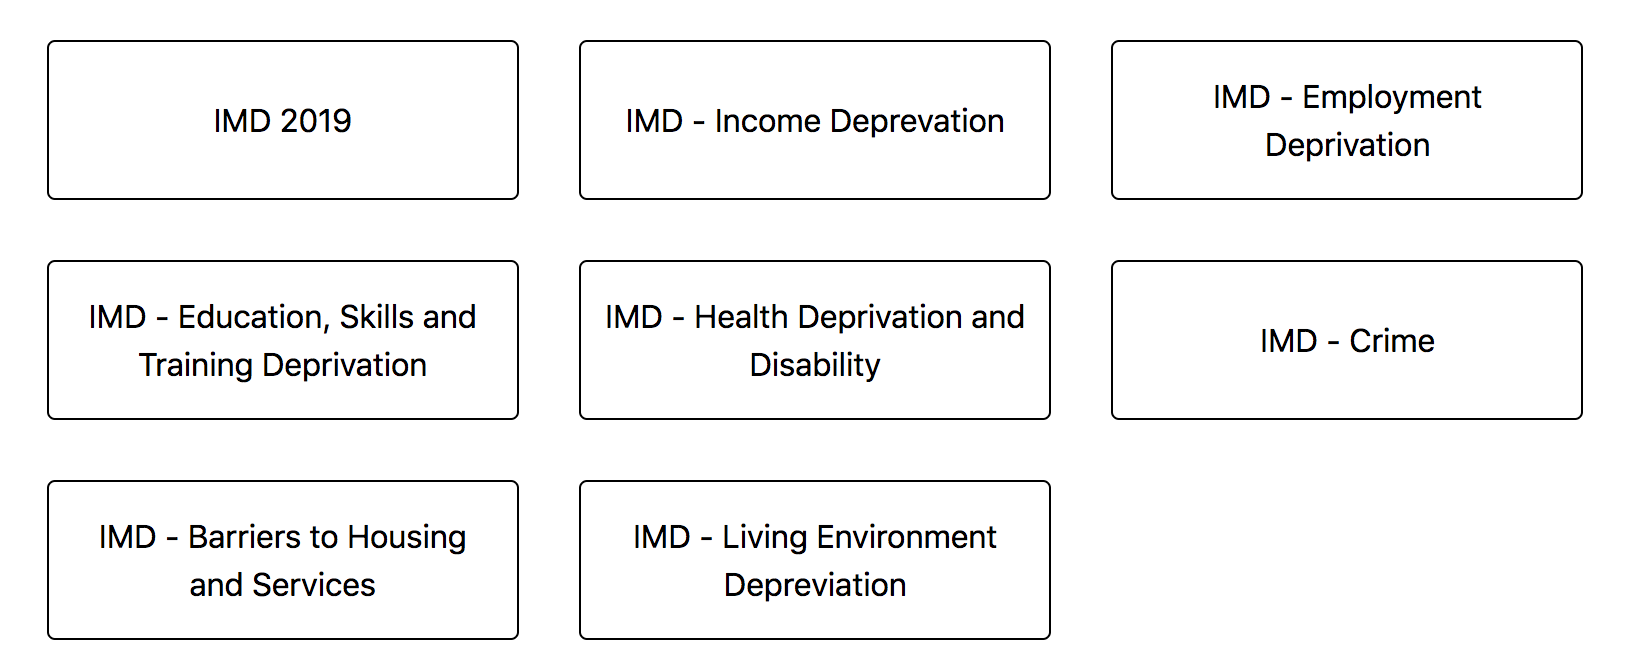
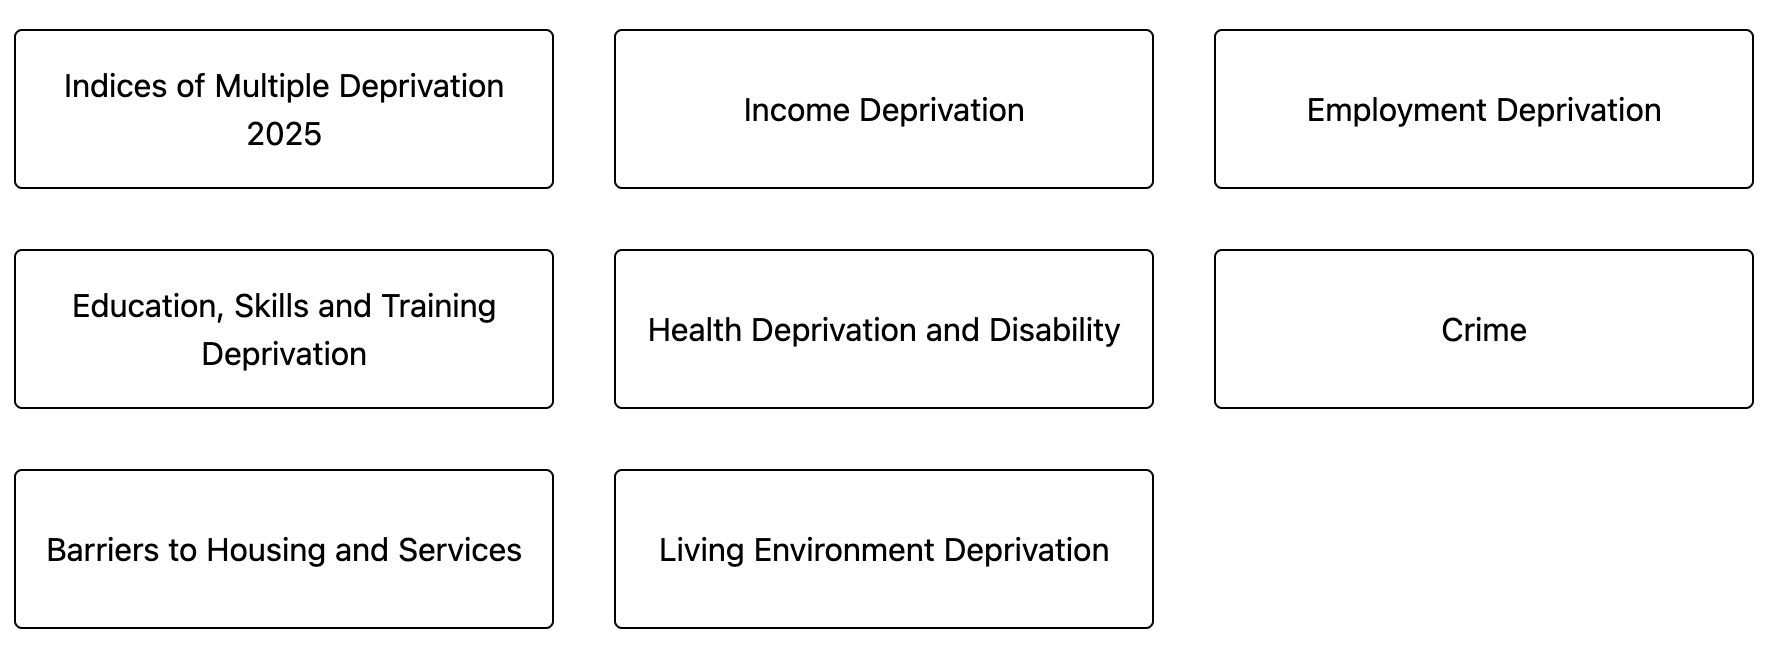
making ui and style changes based on conversation w/ superhighways

diff --git a/analyse/index.html b/analyse/index.html
@@ -59,7 +59,7 @@
             <div id="step2" class="row">
                 <div class="offset-md-1 col-md-10">
                     <p class="instruction-header">2. Select the view to start with:</p>
-                    <p class="subdomain-warning">Please note, the IMD subdomains are not yet available as overlays on the map, but the data summary and count by decile information is available for each sub domain in the left hand panel, and they are all included in the data download.</p> 
+                    <p class="subdomain-warning">* Please note, the IMD subdomains are not yet available as overlays on the map, but the data summary and count by decile information is available for each sub domain in the left hand panel, and they are all included in the data download.</p> 
                     <div class="row">
                         <div class="col-md-3">
                             <h3 id="dataset-title"></h3>
@@ -147,12 +147,12 @@
                 </div>
                 <div class="col-md-8">
                     <div class="row data-navigation">
-                        <p class="subdomain-warning">Please note, the IMD subdomains are not yet available as overlays on the map, but the data summary and count by decile information is available for each sub domain in the left hand panel, and they are all included in the data download.</p> 
+                        <p class="subdomain-warning">* Please note, the IMD subdomains are not yet available as overlays on the map, but the data summary and count by decile information is available for each sub domain in the left hand panel, and they are all included in the data download.</p> 
                         <div class="col-md-12">
                             <button class="btn btn-app btn-data btn-active" data-id="IMD">IMD 2025<br/><wbr></button>
                             <button class="btn btn-app-subdomain btn-data" data-id="Income">Income<br/><wbr></button>
                             <button class="btn btn-app-subdomain btn-data" data-id="Employment">Employment<br/><wbr></button>
-                            <button class="btn btn-app-subdomain btn-data" data-id="Education">Education +<br/ ><wbr></button>
+                            <button class="btn btn-app-subdomain btn-data" data-id="Education">Education +<br/><wbr></button>
                             <button class="btn btn-app-subdomain btn-data" data-id="Health">Health and<br/>Disability</button>
                             <button class="btn btn-app-subdomain btn-data" data-id="Crime">Crime<br/><wbr></button>
                             <button class="btn btn-app-subdomain btn-data" data-id="Housing">Housing and<br/>Services</button>
@@ -168,9 +168,9 @@
             </div>
             <div id="footer" class="row">
                 <div class="col-md-12 text-center">
-                    <p>An initiative of Catalyst in collaboration with Hetco Design, part of the Catalyst and The National Lottery Community Fund COVID-19 Digital Response</p>
-                    <p>This is an open source project. See the <a class="link-highlight" href="">github repository</a> for more information.</p>
-                    <img class="footer-logo" height="30px" src="../images/lottery.png" /><img class="footer-logo" height="20px" src="../images/cast.png" /><img class="footer-logo" height="25px" src="../images/catalyst.png" /><img class="footer-logo" height="30px" src="../images/data-collective.png" /><img class="footer-logo" height="20px" src="../images/DataKindUK.png" /><img class="footer-logo" height="50px" src="../images/hetco.png" />
+                    <p>An initiative of Catalyst in collaboration with Hetco Design, part of the Catalyst and The National Lottery Community Fund COVID-19 Digital Response. 2025 update funded through Datawise London.</p>
+                    <p>This is an open source project. See the <a class="link-highlight" href="https://github.com/DataKind-UK/community-lens-2025">github repository</a> for more information.</p>
+                    <img class="footer-logo" height="30px" src="../images/lottery.png" /><img class="footer-logo" height="20px" src="../images/cast.png" /><img class="footer-logo" height="25px" src="../images/catalyst.png" /><img class="footer-logo" height="30px" src="../images/data-collective.png" /><img class="footer-logo" height="20px" src="../images/DataKindUK.png" /><img class="footer-logo" height="50px" src="../images/hetco.png" /><img class="footer-logo" height="42px" src="../images/superhighways-transparent-logo.png" />        
                 </div>
             </div>
         </div>

diff --git a/index.html b/index.html
@@ -48,7 +48,7 @@
                     <p>The Community Lens tool allows you to plot your postcodes over the Indices of Multiple Deprivation (IMD), the official measure of deprivation in England, comprised of seven distinct domains of deprivation, Income Deprivation, Employment Deprivation, Education, Skills and Training Deprivation, Health Deprivation and Disability, Crime, Barriers to Housing and Services, Living Environment Deprivation.</p>
                     <p class="instruction-header">Why do we have a 2025 and 2019 version of Community Lens?</p>
                     <p>The Indices of Multiple Deprivation (IMD) are released every 6 years. This version of the Community Lens tool uses the IMD data released in 2025. If you would like to compare to the 2019 data, you can access the 2019 version of the Community Lens here: </p>
-                    <a class="link-highlight" href="https://datakind-uk.github.io/community-lens">Community Lens 2019</a>    
+                    <a class="link-highlight-landing-page" href="https://datakind-uk.github.io/community-lens">Community Lens 2019</a>    
                 </div>
             </div>
 
@@ -95,9 +95,9 @@
             </div>
             <div id="footer" class="row">
                 <div class="col-md-12 text-center">
-                    <p>An initiative of Catalyst in collaboration with Hetco Design, part of the Catalyst and The National Lottery Community Fund COVID-19 Digital Response</p>
-                    <p>This is an open source project. See the <a class="link-highlight" href="">github repository</a> for more information.</p>
-                    <img class="footer-logo" height="30px" src="images/lottery.png" /><img class="footer-logo" height="20px" src="images/cast.png" /><img class="footer-logo" height="25px" src="images/catalyst.png" /><img class="footer-logo" height="30px" src="images/data-collective.png" /><img class="footer-logo" height="20px" src="images/DataKindUK.png" /><img class="footer-logo" height="50px" src="images/hetco.png" />
+                    <p class="footer_text">An initiative of Catalyst in collaboration with Hetco Design, part of the Catalyst and The National Lottery Community Fund COVID-19 Digital Response. 2025 update funded through Datawise London.</p>
+                    <p class="footer_text">This is an open source project. See the <a class="link-highlight" href="https://github.com/DataKind-UK/community-lens-2025">github repository</a> for more information.</p>
+                    <img class="footer-logo" height="30px" src="images/lottery.png" /><img class="footer-logo" height="20px" src="images/cast.png" /><img class="footer-logo" height="25px" src="images/catalyst.png" /><img class="footer-logo" height="30px" src="images/data-collective.png" /><img class="footer-logo" height="20px" src="images/DataKindUK.png" /><img class="footer-logo" height="50px" src="images/hetco.png" /><img class="footer-logo" height="42px" src="images/superhighways-transparent-logo.png" />
                 </div>
             </div>
         </div>

diff --git a/about/index.html b/about/index.html
@@ -36,7 +36,7 @@
             </div>
             <div id = "about" class="row">          
                 <div class="col-md-4 offset-md-1">
-                    <p>Community Lens is a prototype tool created from a 5 week design sprint by Hetco Design, DataKind and CAST. The project was funded by the National Lottery.</p>
+                    <p>Community Lens is a prototype tool created from a 5 week design sprint by Hetco Design, DataKind and CAST. The project was funded by the National Lottery. 2025 update funded through Datawise London.</p>
                     <p>Do you want more features or data added to the tool? Please fill out the Request feature and data set form.</p>
                 </div>
                 <div class="offset-md-1 col-md-5">
@@ -45,10 +45,9 @@
             </div>
             <div id="footer" class="row">
                 <div class="col-md-12 text-center">
-                    <p>An initiative of Catalyst in collaboration with Hetco Design, part of the Catalyst and The National Lottery Community Fund COVID-19 Digital Response</p>
-                    <p>This is an open source project. See the <a class="link-highlight" href="">github repository</a> for more information.</p>
-                    <img class="footer-logo" height="30px" src="../images/lottery.png" /><img class="footer-logo" height="20px" src="../images/cast.png" /><img class="footer-logo" height="25px" src="../images/catalyst.png" /><img class="footer-logo" height="30px" src="../images/data-collective.png" /><img class="footer-logo" height="20px" src="../images/DataKindUK.png" /><img class="footer-logo" height="50px" src="../images/hetco.png" />
-                </div>
+                    <p>An initiative of Catalyst in collaboration with Hetco Design, part of the Catalyst and The National Lottery Community Fund COVID-19 Digital Response. 2025 update funded through Datawise London.</p>
+                    <p>This is an open source project. See the <a class="link-highlight" href="https://github.com/DataKind-UK/community-lens-2025">github repository</a> for more information.</p>
+                    <img class="footer-logo" height="30px" src="../images/lottery.png" /><img class="footer-logo" height="20px" src="../images/cast.png" /><img class="footer-logo" height="25px" src="../images/catalyst.png" /><img class="footer-logo" height="30px" src="../images/data-collective.png" /><img class="footer-logo" height="20px" src="../images/DataKindUK.png" /><img class="footer-logo" height="50px" src="../images/hetco.png" /><img class="footer-logo" height="42px" src="../images/superhighways-transparent-logo.png" />                </div>
             </div>
         </div>
     </body>

diff --git a/css/site.css b/css/site.css
@@ -33,7 +33,11 @@ h2 {
 }
 
 p {
-	font-size:0.9em;
+	font-size:1em;
+}
+
+.footer_text {
+	font-size: 0.9em;
 }
 
 .menu-item {
@@ -53,7 +57,7 @@ ul {
 
 a {
 	color:black;
-
+	font-weight: 500;
 }
 
 /* front page */
@@ -67,7 +71,7 @@ a {
 }
 
 .frontpagesubtitle {
-	font-size:1.1em;
+	font-size:1.3em;
 }
 
 #main-description {
@@ -99,7 +103,7 @@ a {
 }
 
 .subdomain-warning {
-	font-weight: 300;
+	font-weight: 500;
 	color: darkred;
 	margin-left:15px;
 	margin-right:15px;
@@ -202,6 +206,13 @@ a {
 	text-decoration: underline;
 	text-decoration-color: blue;
 	color: darkblue;
+}
+
+.link-highlight-landing-page {
+	text-decoration: underline;
+	text-decoration-color: blue;
+	color: purple;
+	font-weight: 1000px;
 }
 
 /* about page */
